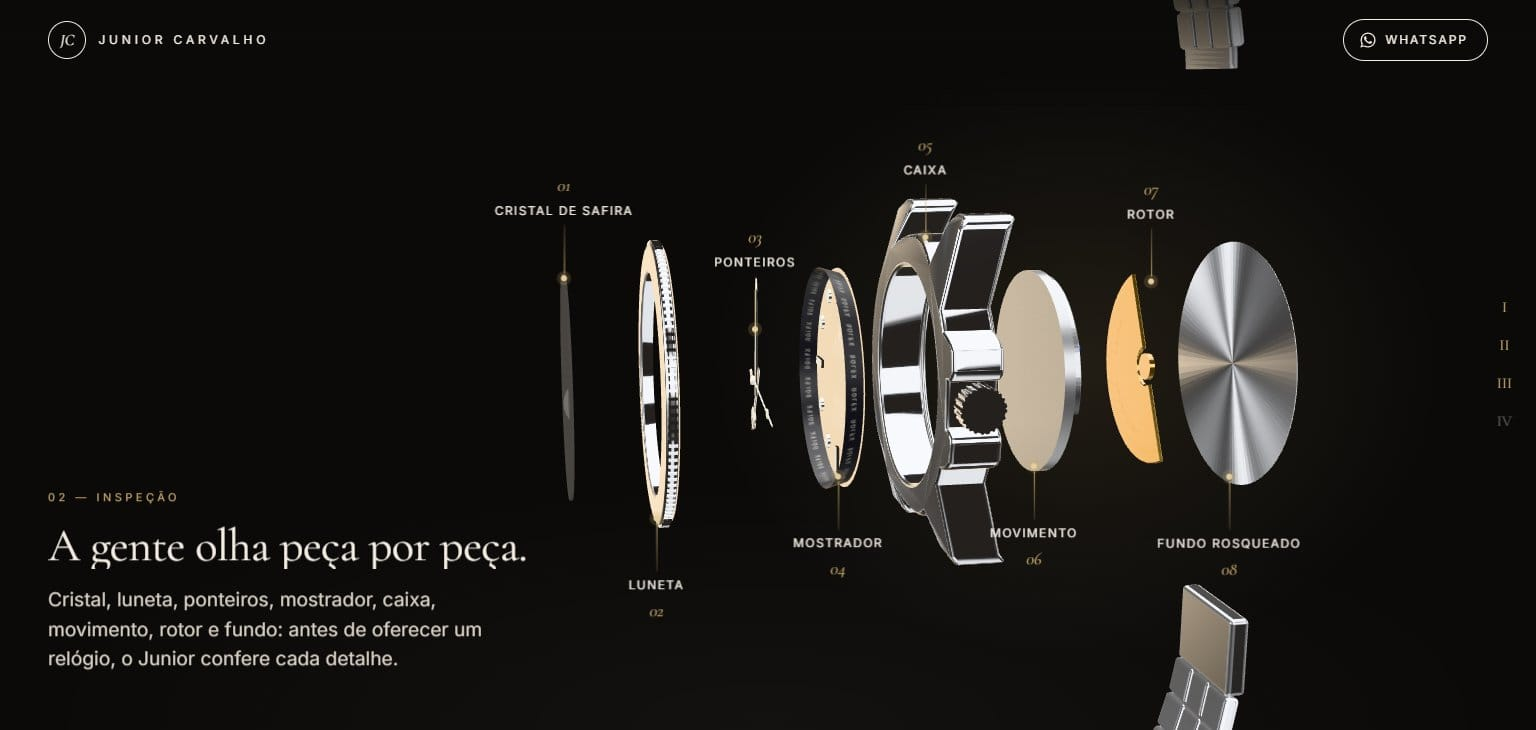
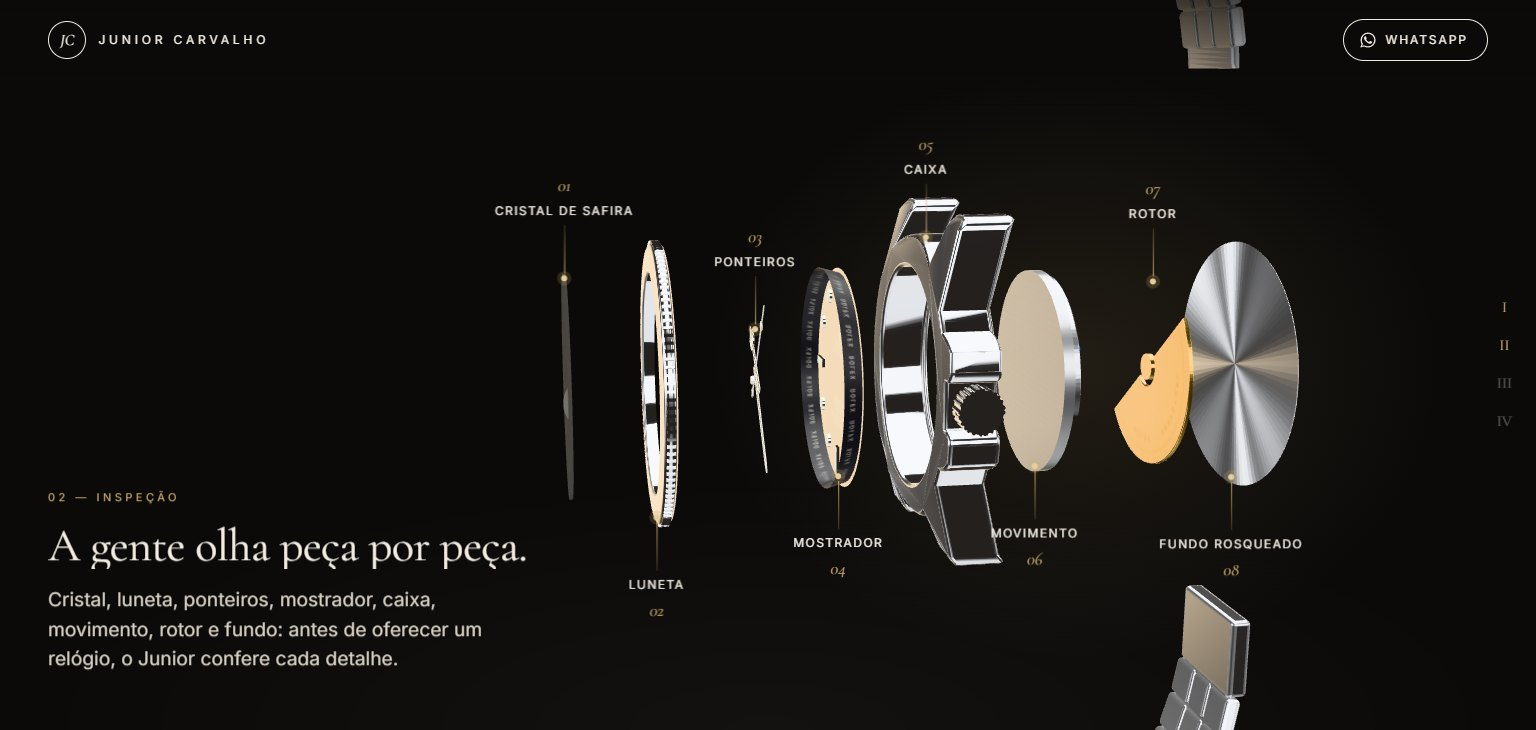
docs(readme): update showcase for new inspection flow

diff --git a/README.md b/README.md
@@ -12,7 +12,7 @@
 
 Landing page criada para demonstração, utilizando o personagem ficticio "Junior Carvalho", que vende relógios de luxo com procedência e atendimento direto pelo WhatsApp.
 
-A página conta uma história com a rolagem: um Rolex Submariner em 3D gira e se desmonta peça por peça para mostrar o que confere antes de oferecer qualquer relógio. Em seguida, os relógios disponíveis aparecem um de cada vez, com a foto oficial de cada modelo dentro da sua própria sala em 3D, a história do modelo à esquerda e a ficha técnica à direita.
+A página abre como uma ficha de inspeção: um Rolex Submariner em 3D sob a retícula de uma lupa, com anel de medição e chamadas presas às peças (luneta, mostrador, caixa). Ao rolar, a câmera se afasta e o mesmo relógio conta uma história: gira, se desmonta peça por peça, dá a volta para mostrar o movimento por trás e se monta de novo, para mostrar o que o Junior confere antes de oferecer qualquer relógio. No fim, ele mergulha no portal da primeira sala, que sobe por baixo dele, e reaparece lá dentro em foto. Em seguida, os relógios disponíveis aparecem um de cada vez, com a foto oficial de cada modelo dentro da sua própria sala em 3D, a história do modelo à esquerda e a ficha técnica à direita. O passo a passo da compra é contado por outro mostrador, cujo ponteiro avança com a rolagem.
 
 Cada relógio tem também a sua página: a foto oficial do relógio escolhido sai do meio da sala e acompanha a rolagem, de um lado para o outro, virando para os textos que contam a história, o desenho, o movimento e a ficha técnica completa, com uma galeria de fotos que se abre em tela cheia.
 
@@ -22,27 +22,47 @@ O conceito visual é o da relojoaria: preto, dourado champanhe e creme, índices
 
 ## Prévia
 
-<img src="assets/desktop-inicio.jpg" alt="Tela inicial: “Junior Carvalho” ao lado de um Rolex Submariner em 3D, de aço, com luneta e mostrador pretos" width="100%">
+<img src="assets/desktop-inicio.jpg" alt="Tela inicial: o título “Relógios de luxo, inspecionados um a um.” ao lado do Rolex Submariner em 3D sob a retícula de uma lupa, com anel de medição e chamadas na luneta, no mostrador e na caixa" width="100%">
 
 <table>
   <tr>
     <td width="50%">
-      <img src="assets/desktop-abertura.jpg" alt="Abertura: relógio bicolor com pulseira Oyster, luneta serrilhada, data e indicador de reserva de marcha">
-      <p align="center"><b>A abertura</b><br><sub>Um relógio que ganha corda conforme o site carrega</sub></p>
+      <img src="assets/desktop-abertura.jpg" alt="Abertura: movimento mecânico desenhado em dourado, com engrenagens, pontes e rubis, e a reserva de marcha enchendo em volta da placa">
+      <p align="center"><b>A abertura</b><br><sub>A coroa dá corda enquanto a página carrega; pronto, o movimento voa até o monograma do cabeçalho</sub></p>
     </td>
     <td width="50%">
-      <img src="assets/desktop-desmontado.jpg" alt="Relógio desmontado em camadas com legendas de cada peça">
+      <img src="assets/desktop-desmontado.jpg" alt="Relógio desmontado em camadas com legendas numeradas de cada peça">
       <p align="center"><b>Peça por peça</b><br><sub>O Submariner se desmonta com a rolagem, com legenda em cada peça</sub></p>
     </td>
   </tr>
   <tr>
     <td width="50%">
+      <img src="assets/desktop-coracao.jpg" alt="Relógio desmontado visto por trás: movimento, rotor dourado e fundo rosqueado">
+      <p align="center"><b>O coração</b><br><sub>Aberto, o relógio dá a volta e cada peça gira, até mostrar o movimento e o rotor</sub></p>
+    </td>
+    <td width="50%">
+      <img src="assets/desktop-veredito.jpg" alt="O relógio montado de frente, um selo “Inspecionado · Aprovado” e a frase “Só oferecemos o que passaria na nossa própria inspeção.” com três itens marcados">
+      <p align="center"><b>O veredito</b><br><sub>Um selo carimba a inspeção e procedência, estado e funcionamento se marcam um a um</sub></p>
+    </td>
+  </tr>
+  <tr>
+    <td width="50%">
+      <img src="assets/desktop-mergulho.jpg" alt="O Submariner pequeno, mergulhando no centro do portal azul da primeira sala, que sobe com o título “Disponíveis agora”">
+      <p align="center"><b>O mergulho</b><br><sub>O relógio mergulha no portal da galeria enquanto ele sobe, sem corte entre as seções</sub></p>
+    </td>
+    <td width="50%">
       <img src="assets/desktop-submariner.jpg" alt="Foto do Rolex Submariner numa sala azul profunda com feixes de luz">
       <p align="center"><b>Disponíveis</b><br><sub>A foto de cada relógio na sua sala, com história e ficha técnica</sub></p>
     </td>
+  </tr>
+  <tr>
     <td width="50%">
       <img src="assets/desktop-royal-oak.jpg" alt="Foto do Audemars Piguet Royal Oak diante de uma parede de ladrilhos azuis">
       <p align="center"><b>Seis salas</b><br><sub>A câmera atravessa um portal temático entre um relógio e outro</sub></p>
+    </td>
+    <td width="50%">
+      <img src="assets/desktop-como-comprar.jpg" alt="Seção Como comprar: mostrador com o ponteiro e a luneta dourada no passo II e a lista dos quatro passos">
+      <p align="center"><b>Como comprar</b><br><sub>O ponteiro avança com a rolagem, preenche a luneta e abre cada passo</sub></p>
     </td>
   </tr>
   <tr>
@@ -75,19 +95,21 @@ O conceito visual é o da relojoaria: preto, dourado champanhe e creme, índices
 
 ### No celular
 
-<img src="assets/mobile.jpg" alt="Seis telas da versão mobile: abertura, início com o Submariner em 3D, relógio desmontado, salas do Submariner e do Santos e página do GMT-Master II" width="100%">
+<img src="assets/mobile.jpg" alt="Seis telas da versão mobile: abertura com o movimento mecânico, início com a ficha de inspeção do Submariner, relógio desmontado, movimento visto por trás, sala do Submariner e Como comprar" width="100%">
 
 <br>
 
 ## Destaques
 
+- **Um relógio só do início à galeria**: a primeira tela mostra o Submariner 3D numa ficha de inspeção, com chamadas que acompanham o 3D e reaparecem com os mesmos números na história; a rolagem afasta a câmera para a história e, no fim, o relógio mergulha no portal da galeria enquanto ele sobe, sem corte entre as seções.
 - **Fotos reais nas salas**: cada relógio disponível aparece com a foto oficial do modelo, recortada e iluminada dentro da sua sala em 3D, com sombra, halo e um reflexo que passa pelo metal.
 - **Uma página para cada relógio**: história, desenho, movimento e uso no pulso, galeria de fotos com ampliação e ficha técnica completa, com a foto do relógio flutuando pela sala e virando de um lado para o outro com a rolagem. Abre na mesma aba, sem recarregar: a sala da galeria continua e o relógio só muda de lugar; voltar leva de novo à sala daquele relógio.
 - **Rolex Submariner 3D feito em código**: caixa Oyster com alças escovadas e flancos polidos, protetores da coroa, luneta Cerachrom, mostrador laqueado com as inscrições, rehaut gravado, lente cíclope, ponteiros Mercedes e pulseira Oyster, gerados no navegador, sem modelos baixados. Os ponteiros vão para a hora de quem visita.
-- **História guiada pela rolagem**: o relógio gira, se desmonta com legendas e se monta de novo, de frente.
-- **Abertura que acompanha o carregamento real**: um relógio desenhado em CSS ganha corda (trilho dos minutos e reserva de marcha) conforme as fontes e a primeira imagem ficam prontas, e acerta os ponteiros na hora de quem visita.
+- **História guiada pela rolagem**: logo depois da primeira tela, o relógio gira, se desmonta com legendas, dá a volta com cada peça girando para mostrar o movimento e o rotor por trás, e se monta de novo, de frente, para o veredito: um selo de aprovado carimba a inspeção e o checklist se marca item por item.
+- **Como comprar em um mostrador**: a seção fica fixa enquanto o ponteiro passa pelos quatro passos, e a luneta se preenche exatamente até ele, abrindo o texto de cada passo.
+- **Abertura curta**: um movimento mecânico desenhado em dourado (engrenagens, pontes, rubis e o balanço oscilando) enquanto a coroa dá corda; a reserva de marcha em volta enche com o carregamento real. Com a corda completa, o movimento voa até o monograma do cabeçalho enquanto o preto se dissolve, igual em qualquer página. As engrenagens giram com CSS transform, sem travar o carregamento.
 - **Interesse em um toque**: cada relógio abre o WhatsApp com a mensagem pronta.
-- **Leve**: a primeira tela é uma imagem renderizada da própria cena 3D, e o 3D só carrega na primeira interação, entrando por cima dela no mesmo quadro. O relógio é montado em pequenas etapas, a iluminação vem pré-calculada (34 KB) e as fotos são WebP no tamanho certo.
+- **Leve**: a primeira tela não carrega 3D. A cena do relógio começa na primeira interação e, assim que fica pronta, as salas dos relógios disponíveis são preparadas em ordem, com a primeira sala pronta antes de a pessoa chegar nela. O relógio é montado em pequenas etapas, a iluminação vem pré-calculada (34 KB) e as fotos são WebP/AVIF no tamanho certo.
 - **Mesma proporção em qualquer tela**, sem rolagem lateral, testada do celular a monitores largos.
 - **Acessível**: respeita "reduzir movimento", tem navegação por teclado e textos alternativos.
 - **Pronta para o Google**: metadados e imagem de compartilhamento por página, sitemap, robots e dados estruturados (organização, produtos e perguntas frequentes).
@@ -123,6 +145,6 @@ O conceito visual é o da relojoaria: preto, dourado champanhe e creme, índices
 
 ## Direitos
 
-As fotos dos relógios são imagens oficiais das marcas, usadas apenas para ilustrar os modelos. Rolex, Audemars Piguet, Patek Philippe e Cartier são marcas de seus respectivos titulares. Todos os direitos reservados: não é permitido reproduzir ou reutilizar este conteúdo sem autorização.
+Foto, textos, nome e marca pertencem a **Junior Carvalho**. As fotos dos relógios são imagens oficiais das marcas, usadas apenas para ilustrar os modelos. Rolex, Audemars Piguet, Patek Philippe e Cartier são marcas de seus respectivos titulares. Todos os direitos reservados: não é permitido reproduzir ou reutilizar este conteúdo sem autorização.
 
 <!-- Desenvolvido por: Guilherme Francisco Pereira-->
